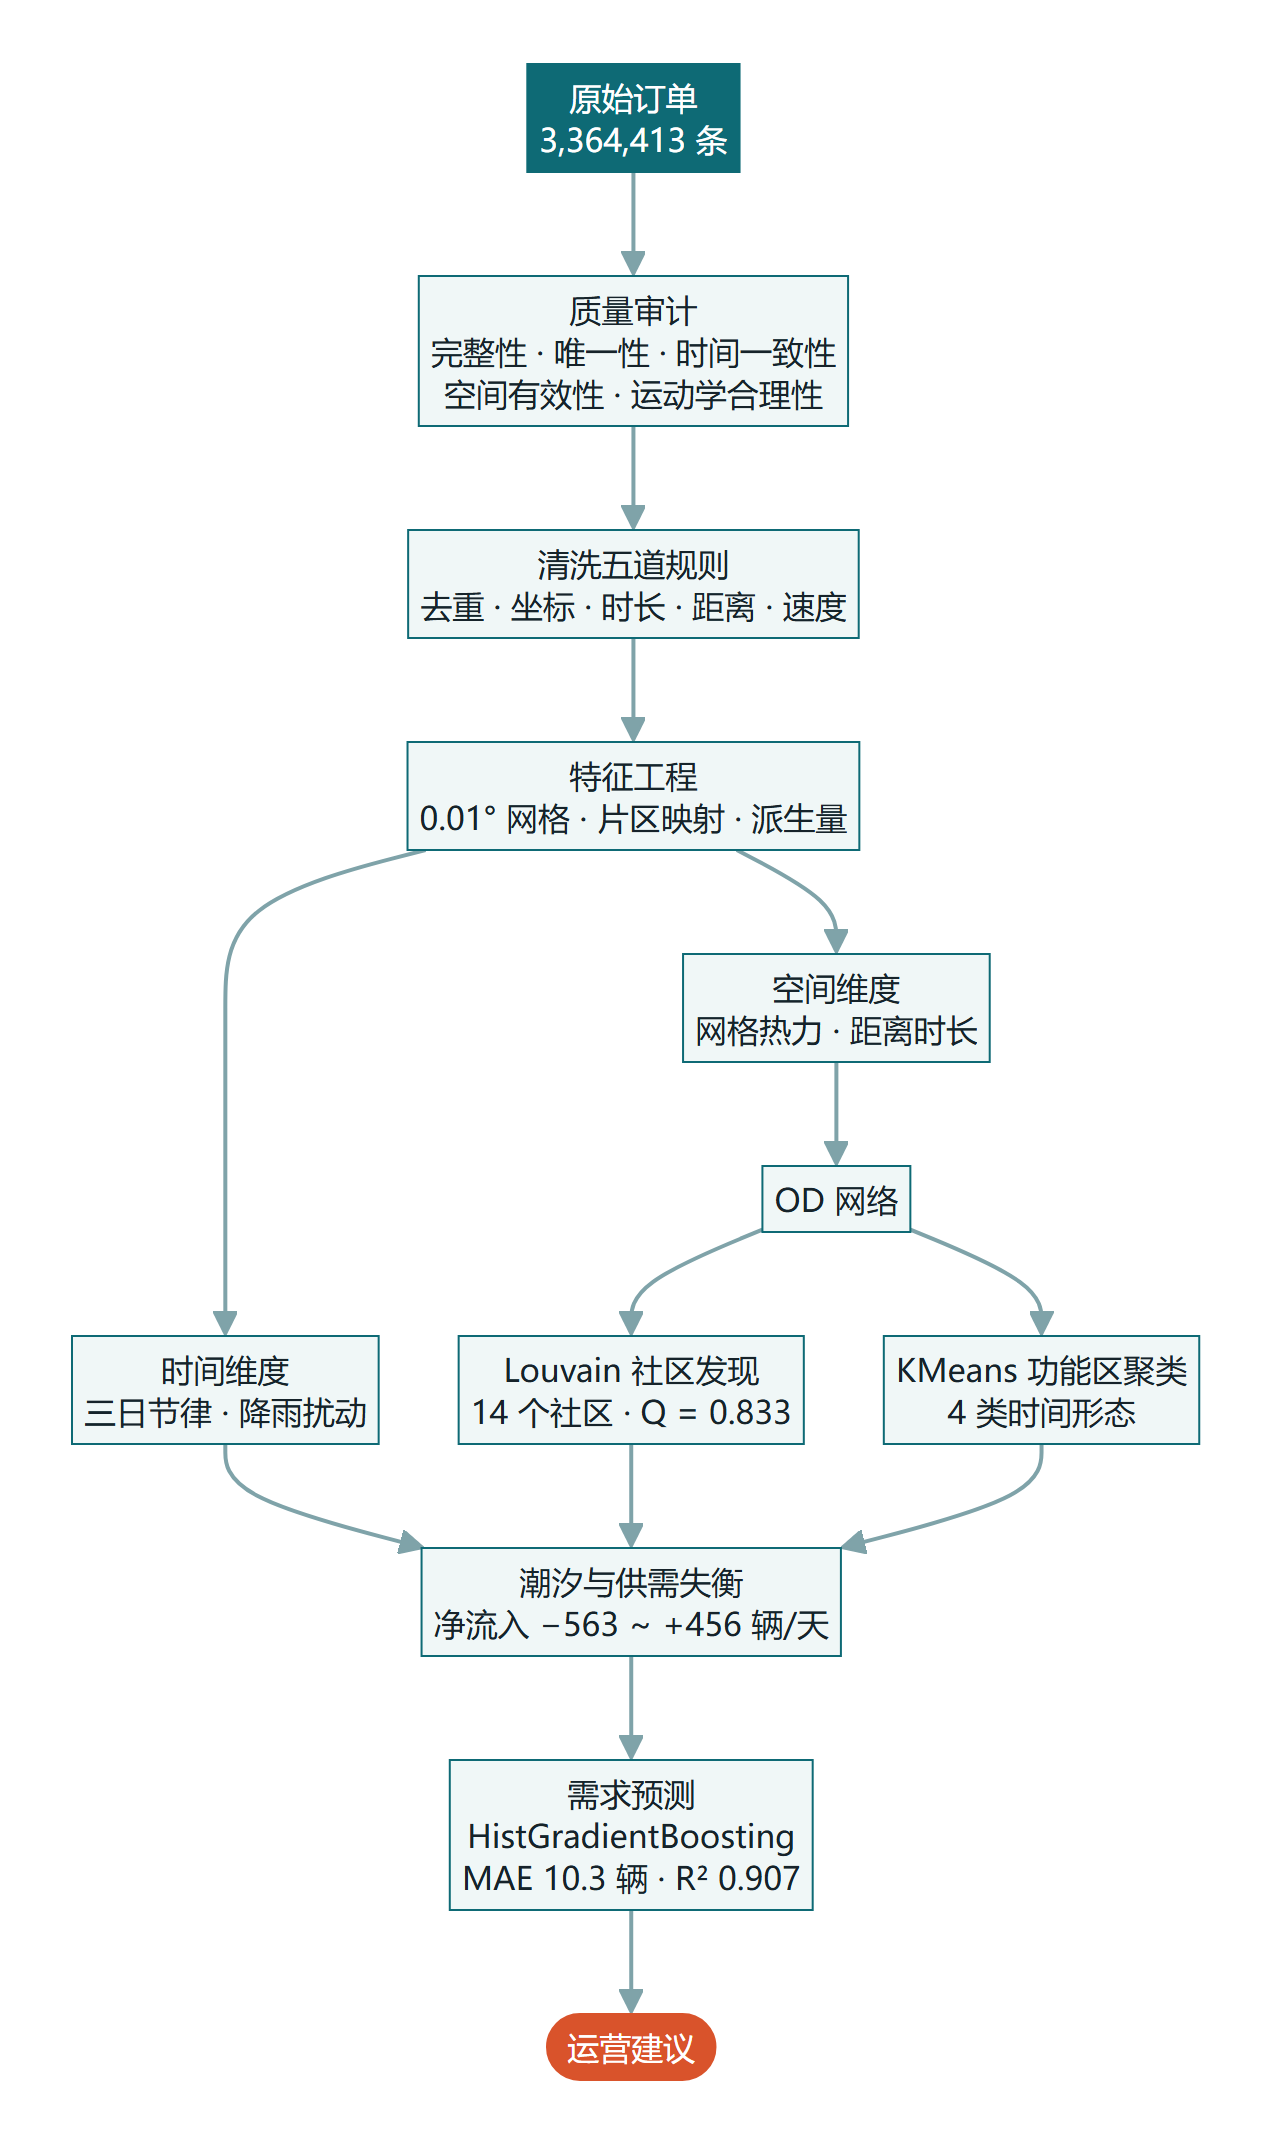
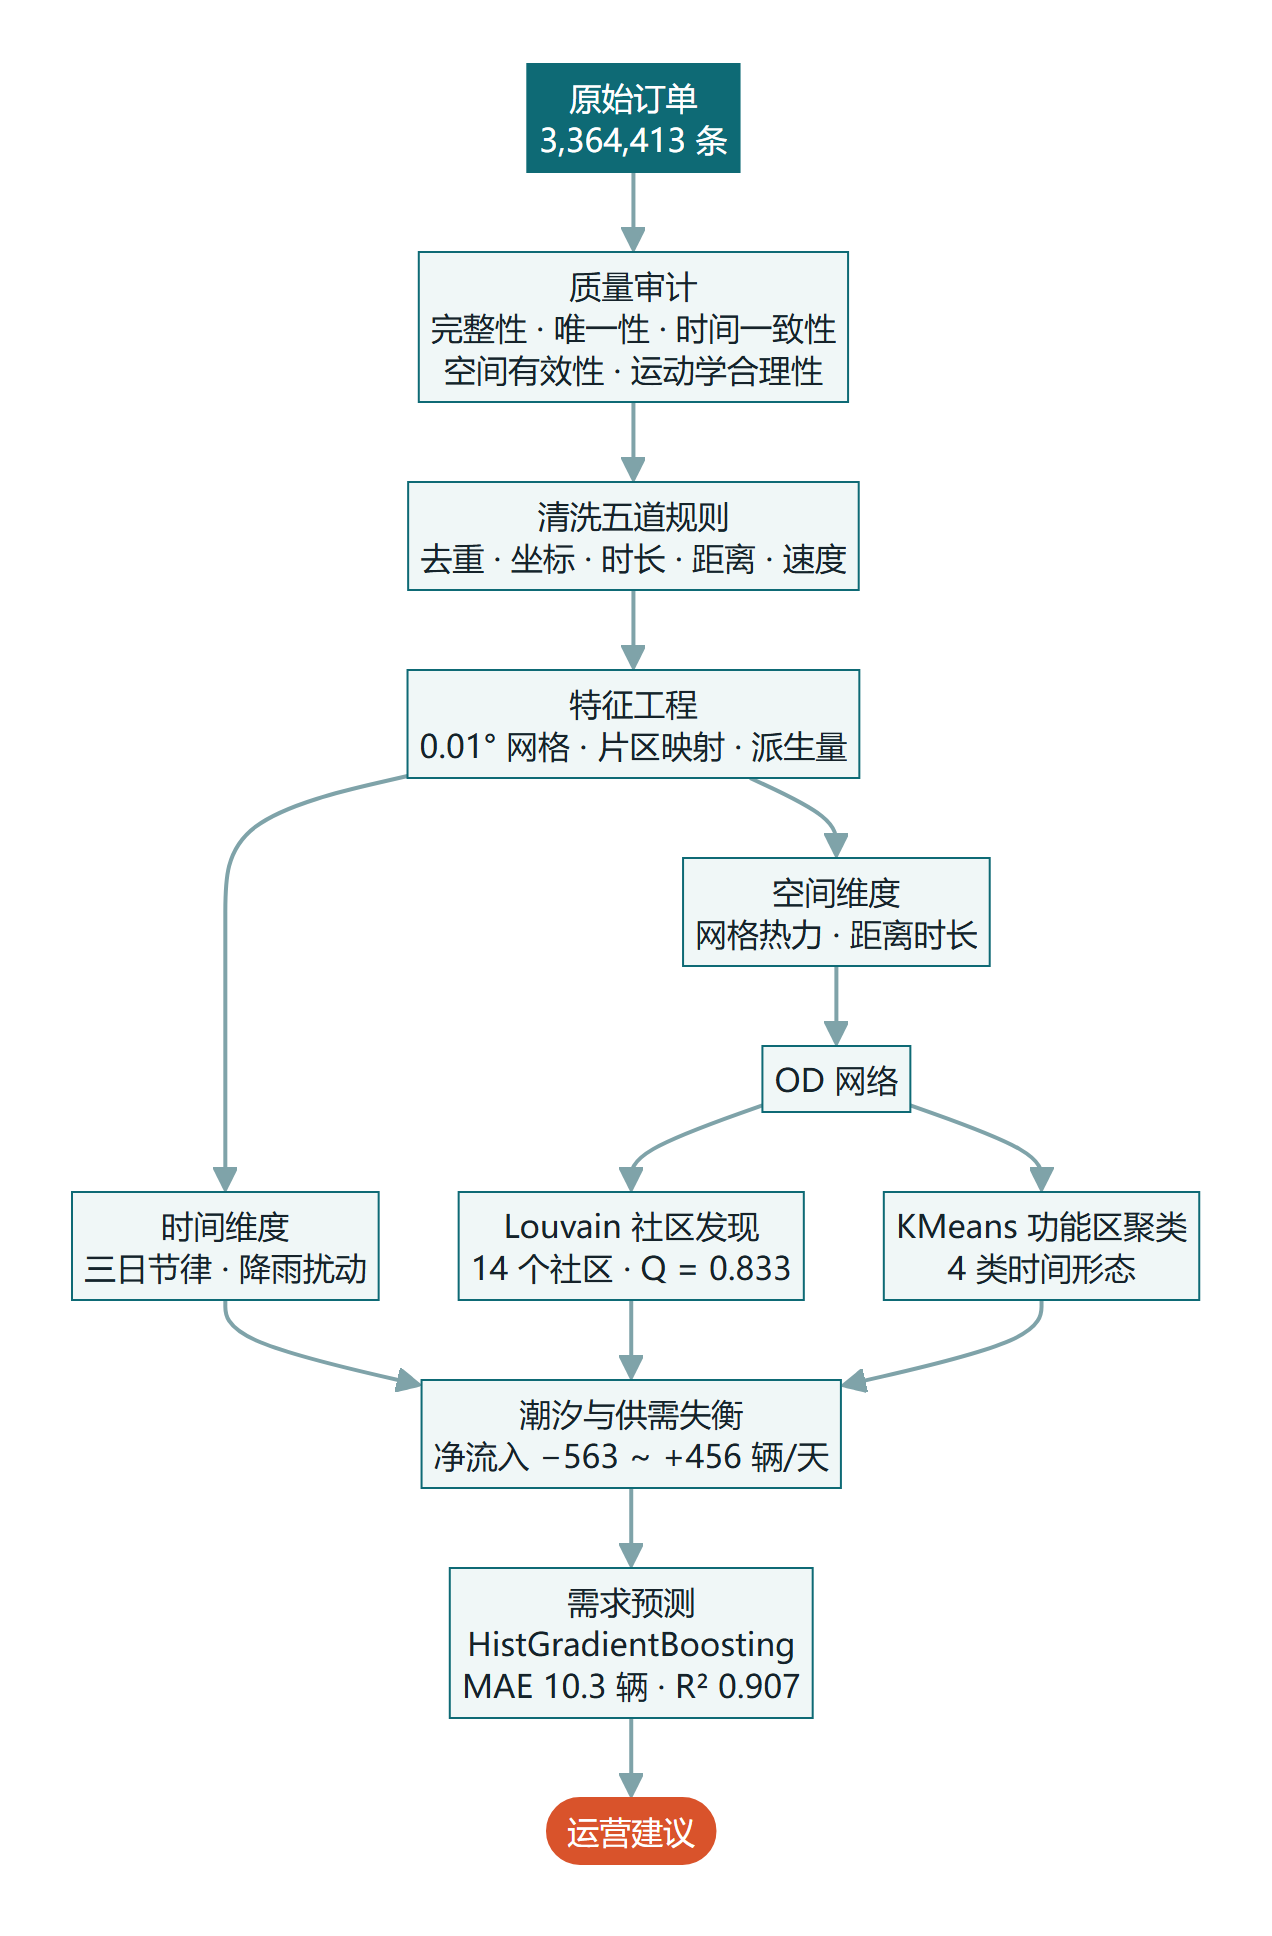
链路图收紧行距并放大展示宽度

diff --git a/README.md b/README.md
@@ -133,7 +133,7 @@
 <p align="center"><sub>五道清洗规则只剔除物理上不可能或无法用于时空分析的记录，保留 94.8%。</sub></p>
 
 <p align="center">
-  <img src="assets/figures/00-pipeline.png" alt="分析链路:从原始订单到运营建议" width="64%">
+  <img src="assets/figures/00-pipeline.png" alt="分析链路:从原始订单到运营建议" width="72%">
 </p>
 
 <p align="center"><sub>链路图由 Mermaid 渲染后导出（源文件 <code>assets/src/pipeline.mmd</code>），不依赖 GitHub 的在线 Mermaid 服务。</sub></p>
